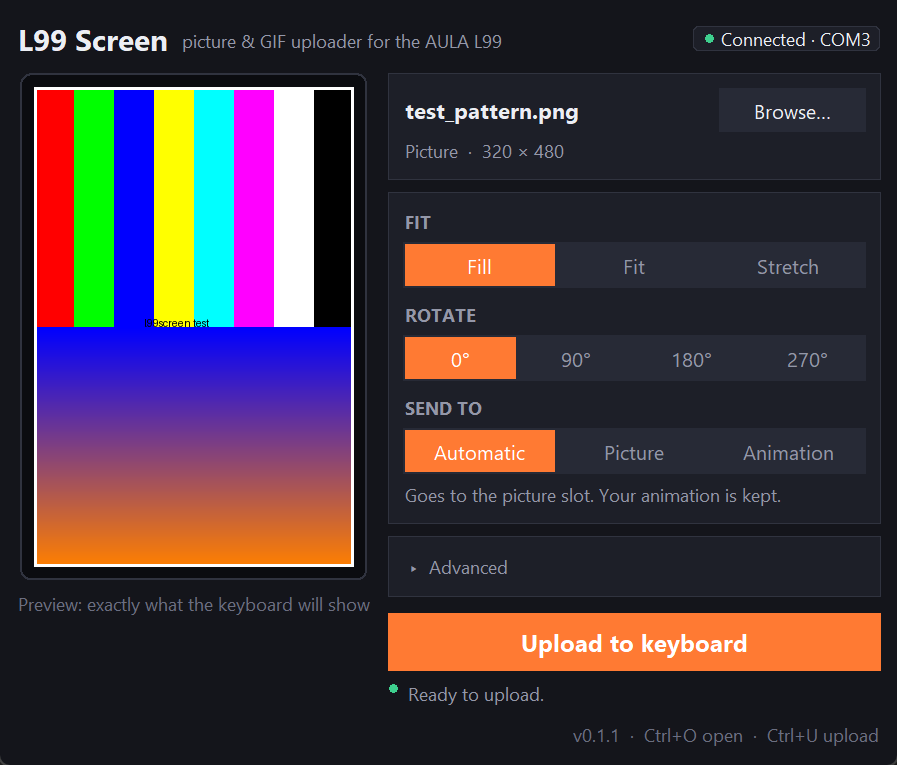
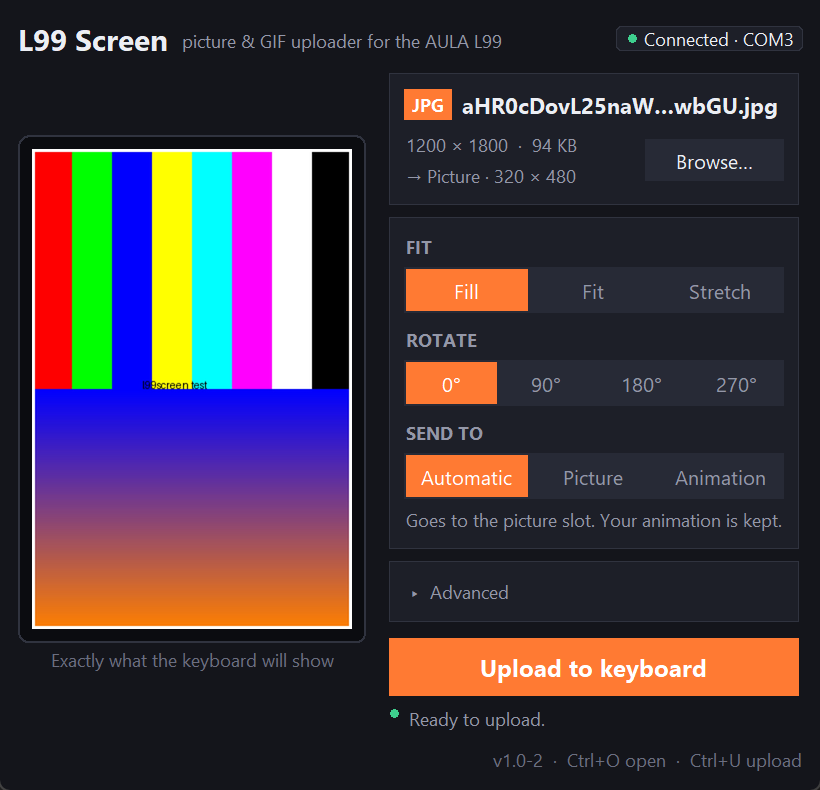
Release 1.0-3: resizable window, file type badge

diff --git a/l99screen/__init__.py b/l99screen/__init__.py
@@ -1,2 +1,2 @@
 """Linux (and Windows) uploader for the AULA L99 keyboard screen."""
-__version__ = "1.0-2"
+__version__ = "1.0-3"

diff --git a/CHANGELOG.md b/CHANGELOG.md
@@ -2,6 +2,22 @@
 
 All notable changes to L99 Screen. Each version below is a GitHub release with an AppImage.
 
+## [1.0-3] - 2026-11-15
+
+### Added
+- The window can be resized to any size, as long as the controls still fit. The preview grows or
+  shrinks with the window while keeping the screen's shape. Its caption shows the zoom level when
+  the preview isn't 1:1; the upload is always 320 × 480.
+- A file-type badge (JPG, PNG, GIF, APNG, WEBP, BMP) next to the file name. It's based on the
+  file's actual contents, not just its extension.
+- The original image size and file size, e.g. "1200 × 1800 · 94 KB", plus what will be sent,
+  e.g. "→ Animation · 12 frames · 1.2 s".
+
+### Fixed
+- Long file names ran under the Browse button and hid the extension. They're now shortened in the
+  middle so the extension always shows, and they have a full-width row of their own.
+- Loading a file no longer shifts the layout.
+
 ## [1.0-2] - 2026-11-15
 
 ### Added
@@ -64,6 +80,7 @@ First release.
 - Graphical app with drag-and-drop and a live preview, and an `l99screen` command-line tool.
 - Self-contained Linux AppImage.
 
+[1.0-3]: https://github.com/SugarButterBuns/l99screen/releases/tag/v1.0-3
 [1.0-2]: https://github.com/SugarButterBuns/l99screen/releases/tag/v1.0-2
 [1.0-1]: https://github.com/SugarButterBuns/l99screen/releases/tag/v1.0-1
 [0.1.1]: https://github.com/SugarButterBuns/l99screen/releases/tag/v0.1.1
